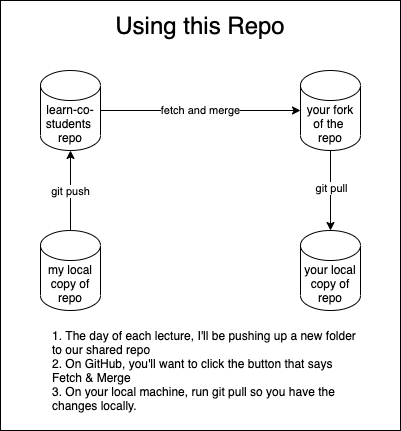
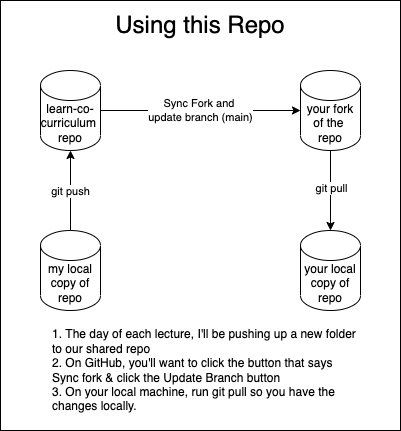
update git instructions

diff --git a/GIT.md b/GIT.md
@@ -45,7 +45,7 @@ Now that you have the repository cloned to your local machine, you'll be able to
 
 ## Before Beginning
 
-1. Click on the Fetch & Merge button on your fork of the repository on GitHub.
+1. Click on the Sync Fork button on your fork of the repository on GitHub and then press the Update Branch button. (if you don't see the button it means your fork is already up to date with the upstream repo and you have all lecture starter code on your fork)
 2. Run `git pull` from within the attached terminal of your local copy of the repository in VS Code.
 
 ![Fetch and Merge Into Git Pull](assets/fetch-and-merge-into-git-pull.gif)
